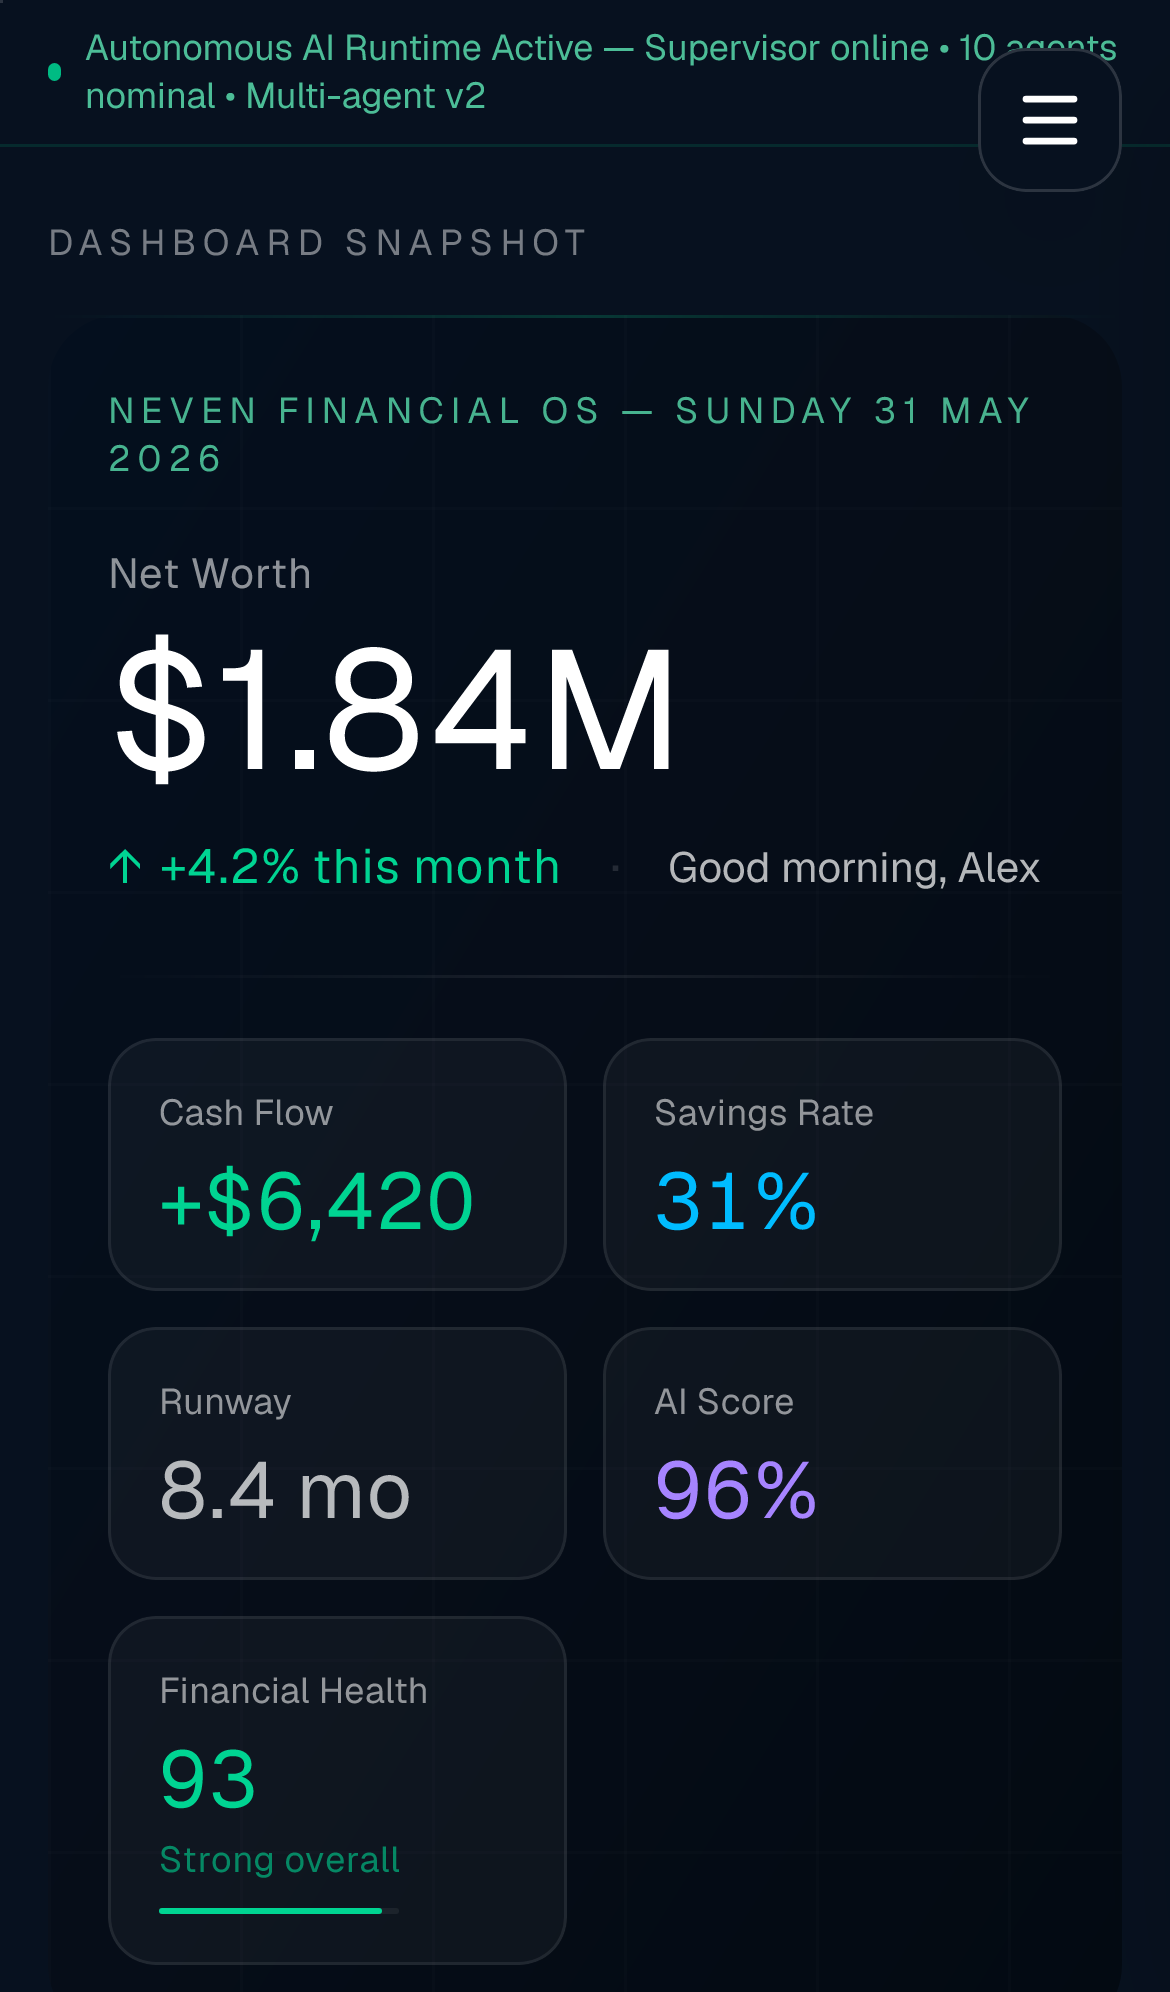
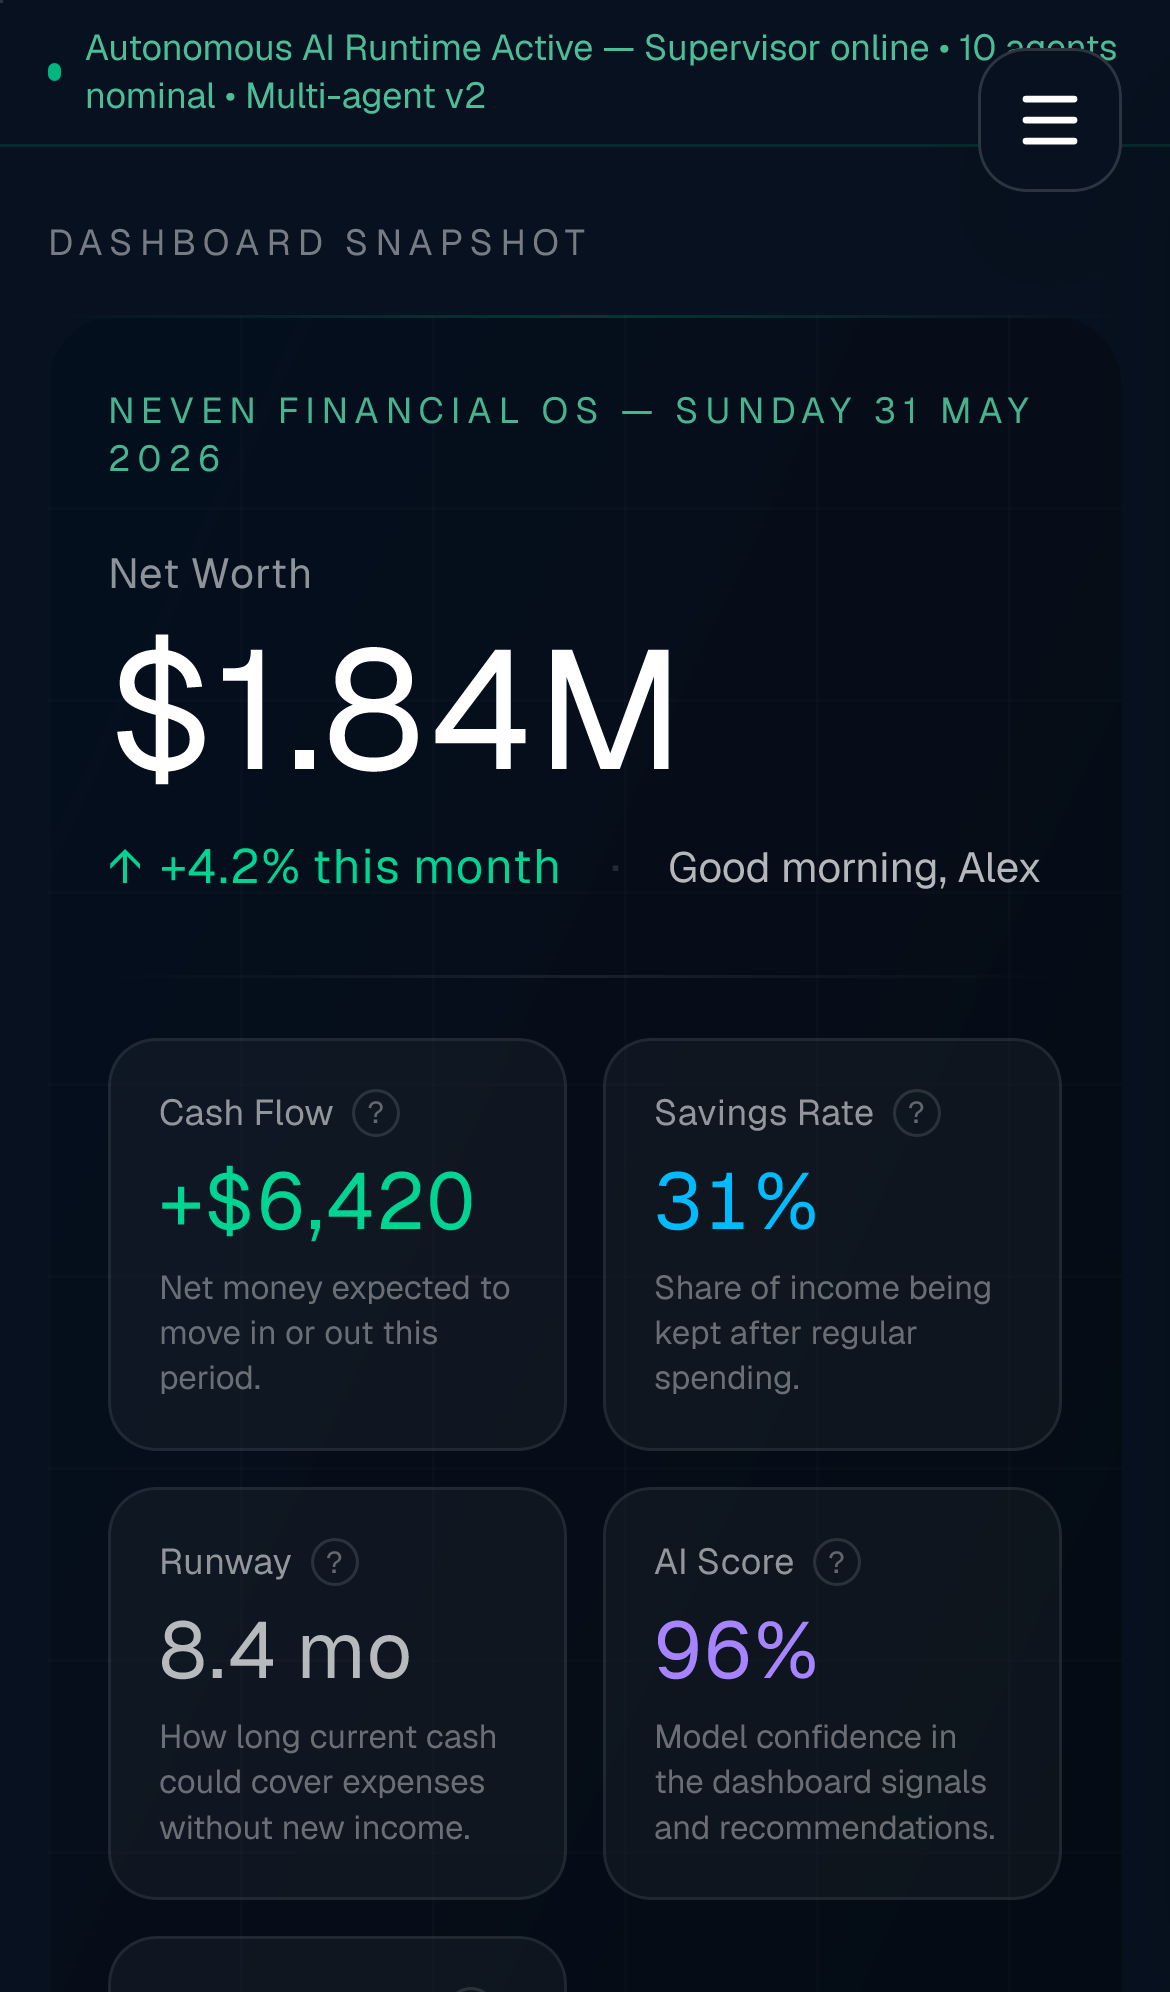
Improve Neven: Run Neven supervisor health task and report readiness withou

diff --git a/src/app/components/OverviewV3.tsx b/src/app/components/OverviewV3.tsx
@@ -63,17 +63,39 @@ export default function OverviewV3({
     value: string;
     accent: string;
     detail?: string;
+    explanation: string;
     progress?: number;
   }[] = [
-    { label: "Cash Flow", value: cashFlow, accent: "emerald" },
-    { label: "Savings Rate", value: savingsRate, accent: "sky" },
-    { label: "Runway", value: runway, accent: "white" },
-    { label: "AI Score", value: aiConfidence, accent: "violet" },
+    {
+      label: "Cash Flow",
+      value: cashFlow,
+      accent: "emerald",
+      explanation: "Net money expected to move in or out this period.",
+    },
+    {
+      label: "Savings Rate",
+      value: savingsRate,
+      accent: "sky",
+      explanation: "Share of income being kept after regular spending.",
+    },
+    {
+      label: "Runway",
+      value: runway,
+      accent: "white",
+      explanation: "How long current cash could cover expenses without new income.",
+    },
+    {
+      label: "AI Score",
+      value: aiConfidence,
+      accent: "violet",
+      explanation: "Model confidence in the dashboard signals and recommendations.",
+    },
     {
       label: "Financial Health",
       value: String(healthScore),
       accent: "health",
       detail: `${healthLabel} overall`,
+      explanation: "Composite 0-100 score from cash flow, savings, debt, and portfolio signals.",
       progress: healthScore,
     },
   ];
@@ -200,8 +222,20 @@ export default function OverviewV3({
               <div className="grid grid-cols-2 gap-3 sm:grid-cols-3 xl:grid-cols-5">
                 {secondaryMetrics.map((m) => (
                   <div key={m.label} className="rounded-2xl border border-white/[0.08] bg-white/[0.035] p-4">
-                    <div className="mb-2 text-xs font-medium text-white/55">
-                      {m.label}
+                    <div className="mb-2 flex items-center gap-1.5 text-xs font-medium text-white/55">
+                      <span>{m.label}</span>
+                      <span
+                        aria-label={`${m.label}: ${m.explanation}`}
+                        className="group relative inline-flex h-4 w-4 cursor-help items-center justify-center rounded-full border border-white/[0.12] text-[10px] font-bold text-white/35 outline-none transition hover:border-white/25 hover:text-white/70 focus-visible:border-emerald-300/60 focus-visible:text-white"
+                        role="img"
+                        tabIndex={0}
+                        title={m.explanation}
+                      >
+                        ?
+                        <span className="pointer-events-none absolute left-1/2 top-5 z-10 hidden w-52 -translate-x-1/2 rounded-lg border border-white/[0.1] bg-[#07111f] px-3 py-2 text-left text-[11px] font-medium leading-snug text-white/72 shadow-2xl group-hover:block group-focus-visible:block">
+                          {m.explanation}
+                        </span>
+                      </span>
                     </div>
                     <div
                       className={`font-bold tabular-nums leading-none ${accentClass[m.accent]}`}
@@ -214,6 +248,9 @@ export default function OverviewV3({
                         {m.detail}
                       </div>
                     )}
+                    <p className="mt-2 min-h-8 text-[11px] leading-snug text-white/38">
+                      {m.explanation}
+                    </p>
                     {m.progress !== undefined && (
                       <div className="mt-2 h-[2px] w-20 rounded-full bg-white/[0.06]">
                         <div
